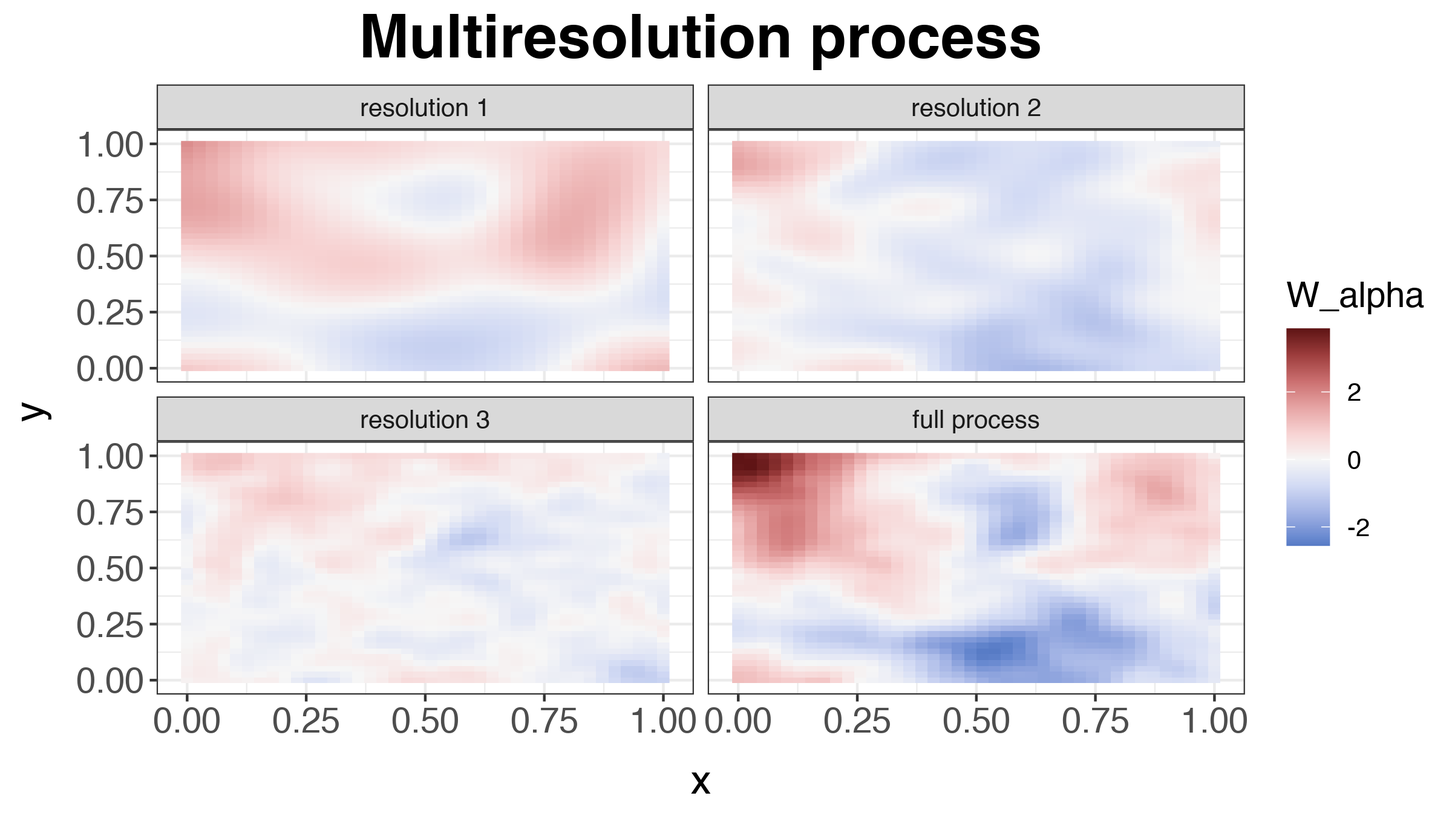
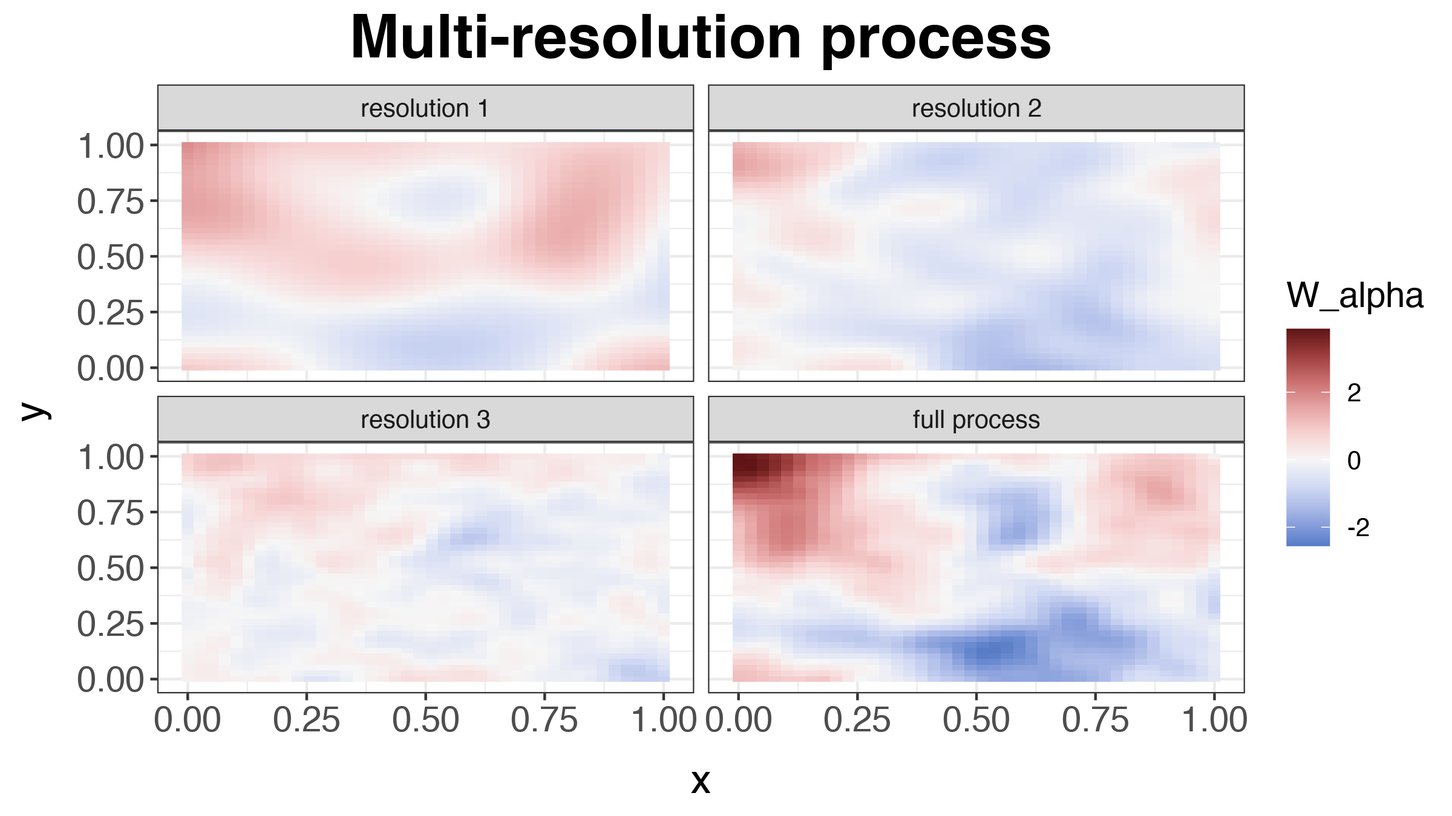
Deploy jtipton25/BayesMRA to github.com/jtipton25/BayesMRA.git:gh-pages

diff --git a/articles/mra-simulation.html b/articles/mra-simulation.html
@@ -5,13 +5,13 @@
 <meta charset="utf-8">
 <meta http-equiv="X-UA-Compatible" content="IE=edge">
 <meta name="viewport" content="width=device-width, initial-scale=1.0">
-<title>Fitting Bayesian multiresolution models with `mcmc_mra()` • BayesMRA</title>
+<title>Fitting Bayesian Multi-resolution Models With `mcmc_mra()` • BayesMRA</title>
 <!-- jquery --><script src="https://cdnjs.cloudflare.com/ajax/libs/jquery/3.4.1/jquery.min.js" integrity="sha256-CSXorXvZcTkaix6Yvo6HppcZGetbYMGWSFlBw8HfCJo=" crossorigin="anonymous"></script><!-- Bootstrap --><link rel="stylesheet" href="https://cdnjs.cloudflare.com/ajax/libs/twitter-bootstrap/3.4.1/css/bootstrap.min.css" integrity="sha256-bZLfwXAP04zRMK2BjiO8iu9pf4FbLqX6zitd+tIvLhE=" crossorigin="anonymous">
 <script src="https://cdnjs.cloudflare.com/ajax/libs/twitter-bootstrap/3.4.1/js/bootstrap.min.js" integrity="sha256-nuL8/2cJ5NDSSwnKD8VqreErSWHtnEP9E7AySL+1ev4=" crossorigin="anonymous"></script><!-- bootstrap-toc --><link rel="stylesheet" href="../bootstrap-toc.css">
 <script src="../bootstrap-toc.js"></script><!-- Font Awesome icons --><link rel="stylesheet" href="https://cdnjs.cloudflare.com/ajax/libs/font-awesome/5.12.1/css/all.min.css" integrity="sha256-mmgLkCYLUQbXn0B1SRqzHar6dCnv9oZFPEC1g1cwlkk=" crossorigin="anonymous">
 <link rel="stylesheet" href="https://cdnjs.cloudflare.com/ajax/libs/font-awesome/5.12.1/css/v4-shims.min.css" integrity="sha256-wZjR52fzng1pJHwx4aV2AO3yyTOXrcDW7jBpJtTwVxw=" crossorigin="anonymous">
 <!-- clipboard.js --><script src="https://cdnjs.cloudflare.com/ajax/libs/clipboard.js/2.0.6/clipboard.min.js" integrity="sha256-inc5kl9MA1hkeYUt+EC3BhlIgyp/2jDIyBLS6k3UxPI=" crossorigin="anonymous"></script><!-- headroom.js --><script src="https://cdnjs.cloudflare.com/ajax/libs/headroom/0.11.0/headroom.min.js" integrity="sha256-AsUX4SJE1+yuDu5+mAVzJbuYNPHj/WroHuZ8Ir/CkE0=" crossorigin="anonymous"></script><script src="https://cdnjs.cloudflare.com/ajax/libs/headroom/0.11.0/jQuery.headroom.min.js" integrity="sha256-ZX/yNShbjqsohH1k95liqY9Gd8uOiE1S4vZc+9KQ1K4=" crossorigin="anonymous"></script><!-- pkgdown --><link href="../pkgdown.css" rel="stylesheet">
-<script src="../pkgdown.js"></script><meta property="og:title" content="Fitting Bayesian multiresolution models with `mcmc_mra()`">
+<script src="../pkgdown.js"></script><meta property="og:title" content="Fitting Bayesian Multi-resolution Models With `mcmc_mra()`">
 <meta property="og:description" content="BayesMRA">
 <!-- mathjax --><script src="https://cdnjs.cloudflare.com/ajax/libs/mathjax/2.7.5/MathJax.js" integrity="sha256-nvJJv9wWKEm88qvoQl9ekL2J+k/RWIsaSScxxlsrv8k=" crossorigin="anonymous"></script><script src="https://cdnjs.cloudflare.com/ajax/libs/mathjax/2.7.5/config/TeX-AMS-MML_HTMLorMML.js" integrity="sha256-84DKXVJXs0/F8OTMzX4UR909+jtl4G7SPypPavF+GfA=" crossorigin="anonymous"></script><!--[if lt IE 9]>
 <script src="https://oss.maxcdn.com/html5shiv/3.7.3/html5shiv.min.js"></script>
@@ -54,7 +54,7 @@
   </a>
   <ul class="dropdown-menu" role="menu">
 <li>
-      <a href="../articles/mra-simulation.html">Fitting Bayesian multiresolution models with `mcmc_mra()`</a>
+      <a href="../articles/mra-simulation.html">Fitting Bayesian Multi-resolution Models With `mcmc_mra()`</a>
     </li>
   </ul>
 </li>
@@ -82,7 +82,7 @@
       </header><div class="row">
   <div class="col-md-9 contents">
     <div class="page-header toc-ignore">
-      <h1 data-toc-skip>Fitting Bayesian multiresolution models with <code>mcmc_mra()</code>
+      <h1 data-toc-skip>Fitting Bayesian Multi-resolution Models With <code>mcmc_mra()</code>
 </h1>
             
       
@@ -94,7 +94,7 @@
     
     
 
-<p>In this Vignette, we demonstrate how to fit Bayesian spatial models using the multiresolution model using Markov Chain Monte Carlo (MCMC).</p>
+<p>In this Vignette, we demonstrate how to fit Bayesian spatial models using the multi-resolution model using Markov Chain Monte Carlo (MCMC).</p>
 <div id="defining-the-mra-model" class="section level1">
 <h1 class="hasAnchor">
 <a href="#defining-the-mra-model" class="anchor"></a>Defining the MRA model</h1>
@@ -170,13 +170,13 @@ y(\mathbf{s}) &amp; = \mathbf{x}(\mathbf{s})' \boldsymbol{\beta} + \eta(\mathbf{
 <span class="no">y</span> <span class="kw">&lt;-</span> <span class="no">X</span> <span class="kw">%*%</span> <span class="no">beta</span> + <span class="no">W</span> <span class="kw">%*%</span> <span class="no">alpha</span> + <span class="fu"><a href="https://rdrr.io/r/stats/Normal.html">rnorm</a></span>(<span class="no">N</span>, <span class="fl">0</span>, <span class="fu"><a href="https://rdrr.io/r/base/MathFun.html">sqrt</a></span>(<span class="no">sigma2</span>))</pre></body></html></div>
 <p>Next, the sum-to-one constraint is verified by checking that within each dimension the sum of the <span class="math inline">\(\boldsymbol{\alpha}_m\)</span> parameters is 0.</p>
 <div class="sourceCode" id="cb2"><html><body><pre class="r"><span class="fu"><a href="https://rdrr.io/r/base/sum.html">sum</a></span>(<span class="no">alpha</span>)</pre></body></html></div>
-<pre><code>## [1] 4.128642e-14</code></pre>
+<pre><code>## [1] 1.98782e-14</code></pre>
 <div class="sourceCode" id="cb4"><html><body><pre class="r"><span class="fu"><a href="https://rdrr.io/r/base/sum.html">sum</a></span>(<span class="no">alpha</span>[<span class="no">dims_idx</span> <span class="kw">==</span> <span class="fl">1</span>])</pre></body></html></div>
-<pre><code>## [1] -3.103073e-14</code></pre>
+<pre><code>## [1] 1.450229e-15</code></pre>
 <div class="sourceCode" id="cb6"><html><body><pre class="r"><span class="fu"><a href="https://rdrr.io/r/base/sum.html">sum</a></span>(<span class="no">alpha</span>[<span class="no">dims_idx</span> <span class="kw">==</span> <span class="fl">2</span>])</pre></body></html></div>
-<pre><code>## [1] 2.21767e-14</code></pre>
+<pre><code>## [1] 4.22995e-14</code></pre>
 <div class="sourceCode" id="cb8"><html><body><pre class="r"><span class="fu"><a href="https://rdrr.io/r/base/sum.html">sum</a></span>(<span class="no">alpha</span>[<span class="no">dims_idx</span> <span class="kw">==</span> <span class="fl">3</span>])</pre></body></html></div>
-<pre><code>## [1] 5.014045e-14</code></pre>
+<pre><code>## [1] -2.387153e-14</code></pre>
 <div id="plotting-the-simulated-data" class="section level2">
 <h2 class="hasAnchor">
 <a href="#plotting-the-simulated-data" class="anchor"></a>Plotting the simulated data</h2>
@@ -292,9 +292,9 @@ y(\mathbf{s}) &amp; = \mathbf{x}(\mathbf{s})' \boldsymbol{\beta} + \eta(\mathbf{
   <span class="fu">ggtitle</span>(<span class="st">"Fixed effects"</span>) +
   <span class="kw pkg">colorspace</span><span class="kw ns">::</span><span class="fu">scale_fill_continuous_diverging</span>(<span class="st">"Blue-Red 3"</span>, <span class="kw">limits</span> <span class="kw">=</span> <span class="no">zlims</span>) +
   <span class="fu">theme_bw</span>() +
-  <span class="fu">theme_custom</span>(<span class="fl">0.70</span>)
-
-<span class="no">dat_map</span> <span class="kw">&lt;-</span> <span class="fu"><a href="https://rdrr.io/r/base/data.frame.html">data.frame</a></span>(
+  <span class="fu">theme_custom</span>(<span class="fl">0.70</span>)</pre></body></html></div>
+<pre><code>## Error in ggplot2::continuous_scale(aesthetics, "continuous_diverging", : object 'zlims' not found</code></pre>
+<div class="sourceCode" id="cb16"><html><body><pre class="r"><span class="no">dat_map</span> <span class="kw">&lt;-</span> <span class="fu"><a href="https://rdrr.io/r/base/data.frame.html">data.frame</a></span>(
   <span class="kw">temp</span> <span class="kw">=</span> <span class="fu"><a href="https://rdrr.io/r/base/c.html">c</a></span>(<span class="no">y</span>),
   <span class="kw">re</span>   <span class="kw">=</span> <span class="fu"><a href="https://rdrr.io/r/base/c.html">c</a></span>(<span class="no">W</span> <span class="kw">%*%</span> <span class="no">alpha</span>),
   <span class="kw">x</span>    <span class="kw">=</span> <span class="no">locs</span>[, <span class="fl">1</span>],
@@ -309,9 +309,9 @@ y(\mathbf{s}) &amp; = \mathbf{x}(\mathbf{s})' \boldsymbol{\beta} + \eta(\mathbf{
   <span class="fu">ggtitle</span>(<span class="st">"Observed surface"</span>) +
   <span class="kw pkg">colorspace</span><span class="kw ns">::</span><span class="fu">scale_fill_continuous_diverging</span>(<span class="st">"Blue-Red 3"</span>, <span class="kw">limits</span> <span class="kw">=</span> <span class="no">zlims</span>) +
   <span class="fu">theme_bw</span>() +
-  <span class="fu">theme_custom</span>(<span class="fl">0.70</span>)
-
-<span class="no">g_re</span> <span class="kw">&lt;-</span> <span class="no">dat_map</span> <span class="kw">%&gt;%</span>
+  <span class="fu">theme_custom</span>(<span class="fl">0.70</span>)</pre></body></html></div>
+<pre><code>## Error in ggplot2::continuous_scale(aesthetics, "continuous_diverging", : object 'zlims' not found</code></pre>
+<div class="sourceCode" id="cb18"><html><body><pre class="r"><span class="no">g_re</span> <span class="kw">&lt;-</span> <span class="no">dat_map</span> <span class="kw">%&gt;%</span>
   <span class="fu">ggplot</span>(<span class="fu">aes</span>(<span class="kw">x</span> <span class="kw">=</span> <span class="no">x</span>, <span class="kw">y</span> <span class="kw">=</span> <span class="no">y</span>, <span class="kw">fill</span> <span class="kw">=</span> <span class="no">re</span>)) +
   <span class="fu">geom_raster</span>() +
   <span class="fu">xlab</span>(<span class="st">"x"</span>) +
@@ -320,12 +320,12 @@ y(\mathbf{s}) &amp; = \mathbf{x}(\mathbf{s})' \boldsymbol{\beta} + \eta(\mathbf{
   <span class="kw pkg">colorspace</span><span class="kw ns">::</span><span class="fu">scale_fill_continuous_diverging</span>(<span class="st">"Blue-Red 3"</span>, <span class="kw">limits</span> <span class="kw">=</span> <span class="no">zlims</span>) +
   <span class="fu">theme_bw</span>() +
   <span class="fu">theme</span>(<span class="kw">legend.position</span> <span class="kw">=</span> <span class="st">"none"</span>) +
-  <span class="fu">theme_custom</span>(<span class="fl">0.70</span>)
-
-<span class="no">g_fixed</span> + <span class="no">g_re</span> + <span class="no">g_full</span> + <span class="fu">plot_layout</span>(<span class="kw">guides</span> <span class="kw">=</span> <span class="st">"collect"</span>)</pre></body></html></div>
-<p><img src="plot-data-process-1.png" title="plot of chunk plot-data-process" alt="plot of chunk plot-data-process" style="display: block; margin: auto;"></p>
+  <span class="fu">theme_custom</span>(<span class="fl">0.70</span>)</pre></body></html></div>
+<pre><code>## Error in ggplot2::continuous_scale(aesthetics, "continuous_diverging", : object 'zlims' not found</code></pre>
+<div class="sourceCode" id="cb20"><html><body><pre class="r"><span class="no">g_fixed</span> + <span class="no">g_re</span> + <span class="no">g_full</span> + <span class="fu">plot_layout</span>(<span class="kw">guides</span> <span class="kw">=</span> <span class="st">"collect"</span>)</pre></body></html></div>
+<pre><code>## Error in eval(expr, envir, enclos): object 'g_fixed' not found</code></pre>
 <p>To further examine how the spatial process is constructed, the plot below shows the contribution to the full spatial process (bottom right plot) from each of the different resolutions. The plot shows how the coarsest resolution (top left) produces a coarse process over large spatial resolutions and the finest resolution (lower left) produces a finer-scale process. The three (M) resolutions are added together to produce the full process.</p>
-<div class="sourceCode" id="cb15"><html><body><pre class="r"><span class="co">## MRA spatial process</span>
+<div class="sourceCode" id="cb22"><html><body><pre class="r"><span class="co">## MRA spatial process</span>
 <span class="no">W_alpha_res</span> <span class="kw">=</span> <span class="fu"><a href="https://rdrr.io/r/base/unlist.html">unlist</a></span>(<span class="fu"><a href="https://rdrr.io/r/base/lapply.html">sapply</a></span>(<span class="fl">1</span>:<span class="no">M</span>, <span class="kw">function</span>(<span class="no">m</span>) <span class="no">W</span>[, <span class="no">dims_idx</span> <span class="kw">==</span> <span class="no">m</span>] <span class="kw">%*%</span> <span class="no">alpha</span>[<span class="no">dims_idx</span> <span class="kw">==</span> <span class="no">m</span>], <span class="kw">simplify</span> <span class="kw">=</span> <span class="st">"matrix"</span>))
 <span class="fu"><a href="https://rdrr.io/r/base/dimnames.html">dimnames</a></span>(<span class="no">W_alpha_res</span>) <span class="kw">&lt;-</span> <span class="fu"><a href="https://rdrr.io/r/base/list.html">list</a></span>(
   <span class="kw">site</span> <span class="kw">=</span> <span class="fl">1</span>:<span class="no">N</span>,
@@ -352,7 +352,7 @@ y(\mathbf{s}) &amp; = \mathbf{x}(\mathbf{s})' \boldsymbol{\beta} + \eta(\mathbf{
   <span class="fu">facet_wrap</span>( ~ <span class="no">res</span>, <span class="kw">ncol</span> <span class="kw">=</span> <span class="fl">2</span>) +
   <span class="fu">xlab</span>(<span class="st">"x"</span>) +
   <span class="fu">ylab</span>(<span class="st">"y"</span>) +
-  <span class="fu">ggtitle</span>(<span class="st">"Multiresolution process"</span>) +
+  <span class="fu">ggtitle</span>(<span class="st">"Multi-resolution process"</span>) +
   <span class="kw pkg">colorspace</span><span class="kw ns">::</span><span class="fu">scale_fill_continuous_diverging</span>(<span class="st">"Blue-Red 3"</span>) +
   <span class="fu">theme_bw</span>() +
   <span class="fu">theme_custom</span>()
@@ -364,7 +364,7 @@ y(\mathbf{s}) &amp; = \mathbf{x}(\mathbf{s})' \boldsymbol{\beta} + \eta(\mathbf{
 <h1 class="hasAnchor">
 <a href="#fitting-the-mra-model" class="anchor"></a>Fitting the MRA model</h1>
 <p>To explore how well the fitted model can predict out of sample data, we take a sample <span class="math inline">\(s\)</span> of size <span class="math inline">\(n_{sites}\)</span> from the <span class="math inline">\(N\)</span> simulated points and fit the model using <code><a href="../reference/mcmc_mra.html">mcmc_mra()</a></code>.</p>
-<div class="sourceCode" id="cb16"><html><body><pre class="r"><span class="fu"><a href="https://rdrr.io/r/base/Random.html">set.seed</a></span>(<span class="fl">111</span>)
+<div class="sourceCode" id="cb23"><html><body><pre class="r"><span class="fu"><a href="https://rdrr.io/r/base/Random.html">set.seed</a></span>(<span class="fl">111</span>)
 <span class="no">n_sites</span>   <span class="kw">&lt;-</span> <span class="fl">500</span>
 <span class="no">s</span>         <span class="kw">&lt;-</span> <span class="fu"><a href="https://rdrr.io/r/base/sample.html">sample</a></span>(<span class="no">N</span>, <span class="no">n_sites</span>)
 <span class="no">y_s</span>       <span class="kw">&lt;-</span> <span class="no">y</span>[<span class="no">s</span>, ]
@@ -374,7 +374,7 @@ y(\mathbf{s}) &amp; = \mathbf{x}(\mathbf{s})' \boldsymbol{\beta} + \eta(\mathbf{
 <span class="no">locs_s</span>    <span class="kw">&lt;-</span> <span class="no">locs</span>[<span class="no">s</span>, ]
 <span class="no">locs_oos</span>  <span class="kw">&lt;-</span> <span class="no">locs</span>[ - <span class="no">s</span>, ]</pre></body></html></div>
 <p>The plot below shows the sampled data to which the model is fit, showing the spatial patterns of the sampled data.</p>
-<div class="sourceCode" id="cb17"><html><body><pre class="r"><span class="fu"><a href="https://rdrr.io/r/base/data.frame.html">data.frame</a></span>(
+<div class="sourceCode" id="cb24"><html><body><pre class="r"><span class="fu"><a href="https://rdrr.io/r/base/data.frame.html">data.frame</a></span>(
   <span class="kw">x</span>     <span class="kw">=</span> <span class="no">locs_s</span>[, <span class="fl">1</span>],
   <span class="kw">y</span>     <span class="kw">=</span> <span class="no">locs_s</span>[, <span class="fl">2</span>],
   <span class="kw">site</span>  <span class="kw">=</span> <span class="fu"><a href="https://rdrr.io/r/base/factor.html">factor</a></span>(<span class="fl">1</span>:<span class="no">n_sites</span>),
@@ -387,9 +387,9 @@ y(\mathbf{s}) &amp; = \mathbf{x}(\mathbf{s})' \boldsymbol{\beta} + \eta(\mathbf{
   <span class="fu">theme_bw</span>() +
   <span class="fu">theme_custom</span>() +
   <span class="fu">theme</span>(<span class="kw">legend.position</span> <span class="kw">=</span> <span class="st">"none"</span>)</pre></body></html></div>
-<p><img src="plot-sampled-data-1.png" title="plot of chunk plot-sampled-data" alt="plot of chunk plot-sampled-data" style="display: block; margin: auto;"></p>
+<pre><code>## Error in ggplot2::continuous_scale(aesthetics, "continuous_diverging", : object 'zlims' not found</code></pre>
 <p>To fit the model, we must specify the parameters form model fitting. The parameter <code>params$n_adapt</code> determines the number of warm-up MCMC iterations and these iterations are discarded. The parameter <code>params$n_mcmc</code> determines the number of post warm-up MCMC iterations (i.e., the total number of MCMC iterations is <code>params$n_adapt + params$n_mcmc</code>). The parameter <code>params$n_thin</code> determines the thinning rate for keeping posterior samples which is primarily used when the number of MCMC samples to keep stresses the computer memory usage. The total number of samples kept is <code>params$n_mcmc / params$n_thin</code>. The parameter <code>params$n_message</code> specifies the frequency of messages to display showing the progress of the MCMC algorithm. The object <code>priors</code> defines the priors for fitting the model. If <code>priors</code> is not specified, default priors are used.</p>
-<div class="sourceCode" id="cb18"><html><body><pre class="r"><span class="no">params</span> <span class="kw">&lt;-</span> <span class="fu"><a href="https://rdrr.io/r/base/list.html">list</a></span>(
+<div class="sourceCode" id="cb26"><html><body><pre class="r"><span class="no">params</span> <span class="kw">&lt;-</span> <span class="fu"><a href="https://rdrr.io/r/base/list.html">list</a></span>(
   <span class="kw">n_mcmc</span>    <span class="kw">=</span> <span class="fl">500</span>,
   <span class="kw">n_adapt</span>   <span class="kw">=</span> <span class="fl">500</span>,
   <span class="kw">n_thin</span>    <span class="kw">=</span> <span class="fl">1</span>,
@@ -403,11 +403,11 @@ y(\mathbf{s}) &amp; = \mathbf{x}(\mathbf{s})' \boldsymbol{\beta} + \eta(\mathbf{
   <span class="kw">beta_sigma2</span>  <span class="kw">=</span> <span class="fl">1</span>,
   <span class="kw">mu_beta</span>      <span class="kw">=</span> <span class="fu"><a href="https://rdrr.io/r/base/rep.html">rep</a></span>(<span class="fl">0</span>, <span class="fu"><a href="https://rdrr.io/r/base/nrow.html">ncol</a></span>(<span class="no">X_s</span>)),
   <span class="kw">Sigma_beta</span>   <span class="kw">=</span> <span class="fl">5</span> * <span class="fu"><a href="https://rdrr.io/r/base/diag.html">diag</a></span>(<span class="fu"><a href="https://rdrr.io/r/base/nrow.html">ncol</a></span>(<span class="no">X_s</span>)))</pre></body></html></div>
-<p>Now we can fit the model to the simulated data. Using a <a href="https://www.tidyverse.org/blog/2017/12/workflow-vs-script/">project-oriented workflow</a>, we save the MCMC output that results from <code><a href="../reference/mcmc_mra.html">mcmc_mra()</a></code> in a folder named <code>results</code>.</p>
-<div id="fitting-the-mcmc" class="section level2">
+<p>Now we can fit the model to the simulated data. Using a <a href="https://www.tidyverse.org/blog/2017/12/workflow-vs-script/">project-oriented workflow</a>, we save the MCMC output that results from <code><a href="../reference/mcmc_mra.html">mcmc_mra()</a></code> in a folder named <code>results</code> in the current project.</p>
+<div id="fitting-the-model-using-mcmc" class="section level2">
 <h2 class="hasAnchor">
-<a href="#fitting-the-mcmc" class="anchor"></a>Fitting the MCMC</h2>
-<div class="sourceCode" id="cb19"><html><body><pre class="r"><span class="fu"><a href="https://rdrr.io/r/base/Random.html">set.seed</a></span>(<span class="fl">999</span>)
+<a href="#fitting-the-model-using-mcmc" class="anchor"></a>Fitting the model using MCMC</h2>
+<div class="sourceCode" id="cb27"><html><body><pre class="r"><span class="fu"><a href="https://rdrr.io/r/base/Random.html">set.seed</a></span>(<span class="fl">999</span>)
 
 <span class="kw">if</span> (<span class="fu"><a href="https://rdrr.io/r/base/files.html">file.exists</a></span>(<span class="kw pkg">here</span><span class="kw ns">::</span><span class="fu">here</span>(<span class="st">"results"</span>, <span class="st">"fit-mra-sim.RData"</span>))) {
   <span class="fu"><a href="https://rdrr.io/r/base/load.html">load</a></span>(<span class="kw pkg">here</span><span class="kw ns">::</span><span class="fu">here</span>(<span class="st">"results"</span>, <span class="st">"fit-mra-sim.RData"</span>))
@@ -428,14 +428,14 @@ y(\mathbf{s}) &amp; = \mathbf{x}(\mathbf{s})' \boldsymbol{\beta} + \eta(\mathbf{
   <span class="no">runtime</span> <span class="kw">&lt;-</span> <span class="no">end</span> - <span class="no">start</span>
   <span class="fu"><a href="https://rdrr.io/r/base/save.html">save</a></span>(<span class="no">out</span>, <span class="no">runtime</span>, <span class="kw">file</span> <span class="kw">=</span> <span class="kw pkg">here</span><span class="kw ns">::</span><span class="fu">here</span>(<span class="st">"results"</span>, <span class="st">"fit-mra-sim.RData"</span>))
 }</pre></body></html></div>
-<p>The fitting of <code><a href="../reference/mcmc_mra.html">mcmc_mra()</a></code> took 10.89 mins.</p>
+<p>The fitting of <code><a href="../reference/mcmc_mra.html">mcmc_mra()</a></code> took 6.02 mins.</p>
 </div>
 </div>
 <div id="examining-the-mra-mcmc-output" class="section level1">
 <h1 class="hasAnchor">
 <a href="#examining-the-mra-mcmc-output" class="anchor"></a>Examining the MRA MCMC output</h1>
 <p>After fitting the MCMC using <code><a href="../reference/mcmc_mra.html">mcmc_mra()</a></code>, we plot the trace plots of the parameters to check for evidence that the model has not converged and to identify that the parameters have mixed. The first trace plots we examine are for the variance parameters and the regression coefficients. Overall, these trace plots look decent although the effective samples size for the <span class="math inline">\(\tau^2\)</span>s and <span class="math inline">\(\beta\)</span>s might be low and more samples might be needed for making inference with the model.</p>
-<div class="sourceCode" id="cb20"><html><body><pre class="r"><span class="no">dat_tau2</span> <span class="kw">&lt;-</span> <span class="fu"><a href="https://rdrr.io/r/base/data.frame.html">data.frame</a></span>(
+<div class="sourceCode" id="cb28"><html><body><pre class="r"><span class="no">dat_tau2</span> <span class="kw">&lt;-</span> <span class="fu"><a href="https://rdrr.io/r/base/data.frame.html">data.frame</a></span>(
   <span class="kw">tau2</span>      <span class="kw">=</span> <span class="fu"><a href="https://rdrr.io/r/base/c.html">c</a></span>(<span class="no">out</span>$<span class="no">tau2</span>),
   <span class="kw">iteration</span> <span class="kw">=</span> <span class="fu"><a href="https://rdrr.io/r/base/rep.html">rep</a></span>(<span class="fl">1</span>:<span class="fu"><a href="https://rdrr.io/r/base/nrow.html">nrow</a></span>(<span class="no">out</span>$<span class="no">tau2</span>), <span class="kw">times</span> <span class="kw">=</span> <span class="no">M</span>),
   <span class="kw">resolution</span> <span class="kw">=</span> <span class="fu"><a href="https://rdrr.io/r/base/factor.html">factor</a></span>(<span class="fu"><a href="https://rdrr.io/r/base/rep.html">rep</a></span>(<span class="fl">1</span>:<span class="no">M</span>, <span class="kw">each</span> <span class="kw">=</span> <span class="fu"><a href="https://rdrr.io/r/base/nrow.html">nrow</a></span>(<span class="no">out</span>$<span class="no">tau2</span>)))
@@ -485,7 +485,7 @@ y(\mathbf{s}) &amp; = \mathbf{x}(\mathbf{s})' \boldsymbol{\beta} + \eta(\mathbf{
 (<span class="no">p_tau2</span> + <span class="no">p_lambda</span>) /  (<span class="no">p_sigma2</span> + <span class="no">p_beta</span>)</pre></body></html></div>
 <p><img src="trace-plots-1.png" title="plot of chunk trace-plots" alt="plot of chunk trace-plots" style="display: block; margin: auto;"></p>
 <p>Next, the trace plots for the spatial parameter <span class="math inline">\(\boldsymbol{\alpha}_m\)</span> are shown. Because there are so many parameters, a sample is taken for plotting. These traceplots suggest that perhaps <span class="math inline">\(\boldsymbol{\alpha}\)</span> hasn’t entirely converged. However, as there is a non-identifiability between <span class="math inline">\(\tau^2_m\)</span> and <span class="math inline">\(\boldsymbol{\alpha}_m\)</span>, this is not surprising and might not be remedied with more samples.</p>
-<div class="sourceCode" id="cb21"><html><body><pre class="r"><span class="co">## posterior plots for alpha</span>
+<div class="sourceCode" id="cb29"><html><body><pre class="r"><span class="co">## posterior plots for alpha</span>
 
 <span class="no">dat_alpha</span> <span class="kw">&lt;-</span> <span class="fu"><a href="https://rdrr.io/r/base/data.frame.html">data.frame</a></span>(
   <span class="kw">alpha</span> <span class="kw">=</span> <span class="fu"><a href="https://rdrr.io/r/base/c.html">c</a></span>(<span class="no">out</span>$<span class="no">alpha</span>),
@@ -512,7 +512,7 @@ y(\mathbf{s}) &amp; = \mathbf{x}(\mathbf{s})' \boldsymbol{\beta} + \eta(\mathbf{
   <span class="fu">theme</span>(<span class="kw">legend.position</span> <span class="kw">=</span> <span class="st">"none"</span>)</pre></body></html></div>
 <p><img src="trace-plots-alpha-1.png" title="plot of chunk trace-plots-alpha" alt="plot of chunk trace-plots-alpha" style="display: block; margin: auto;"></p>
 <p>Because the model was fit to simulated data, the posterior predictions can be compared to the simulated parameters to evaluate the model performance. The following plots show the 95% central credible intervals for different parameters plotted against the simulated parameters. For the regression parameters <span class="math inline">\(\boldsymbol{\beta}\)</span>, the model is doing a reasonable job of recovering these parameters. The parameter estimates for <span class="math inline">\(\tau^2_m\)</span> and <span class="math inline">\(\boldsymbol{\alpha}_m\)</span> show poor performance in estimating the true parameters. This is due to a non-identifiability in the model; however, this is not a concern as the spatial process <span class="math inline">\(\sum_{m=1}^M \mathbf{W}_m \boldsymbol{\alpha}_m\)</span> is well estimated which will be shown later.</p>
-<div class="sourceCode" id="cb22"><html><body><pre class="r"><span class="co">## predicted vs. estimated beta</span>
+<div class="sourceCode" id="cb30"><html><body><pre class="r"><span class="co">## predicted vs. estimated beta</span>
 <span class="no">dat_plot</span> <span class="kw">&lt;-</span> <span class="fu"><a href="https://rdrr.io/r/base/data.frame.html">data.frame</a></span>(
   <span class="kw">truth</span> <span class="kw">=</span> <span class="no">beta</span>,
   <span class="kw">mean</span>  <span class="kw">=</span> <span class="fu"><a href="https://rdrr.io/r/base/apply.html">apply</a></span>(<span class="no">out</span>$<span class="no">beta</span>, <span class="fl">2</span>, <span class="no">mean</span>),
@@ -586,7 +586,7 @@ y(\mathbf{s}) &amp; = \mathbf{x}(\mathbf{s})' \boldsymbol{\beta} + \eta(\mathbf{
 (<span class="no">p_beta</span> + <span class="no">p_sigma2</span>) / (<span class="no">p_tau2</span> + <span class="no">p_alpha</span>)</pre></body></html></div>
 <p><img src="estimated-vs-predicted-1.png" title="plot of chunk estimated-vs-predicted" alt="plot of chunk estimated-vs-predicted" style="display: block; margin: auto;"></p>
 <p>Next, the simulated and estimated <span class="math inline">\(\boldsymbol{\alpha}_m\)</span> are plotted on the spatial grid. The plots show that the <span class="math inline">\(\boldsymbol{\alpha}_m\)</span>s are not being identified.</p>
-<div class="sourceCode" id="cb23"><html><body><pre class="r"><span class="no">fitted_alphas</span> <span class="kw">&lt;-</span> <span class="fu"><a href="https://rdrr.io/r/base/data.frame.html">data.frame</a></span>(
+<div class="sourceCode" id="cb31"><html><body><pre class="r"><span class="no">fitted_alphas</span> <span class="kw">&lt;-</span> <span class="fu"><a href="https://rdrr.io/r/base/data.frame.html">data.frame</a></span>(
     <span class="kw">x</span> <span class="kw">=</span> <span class="fu"><a href="https://rdrr.io/r/base/unlist.html">unlist</a></span>(<span class="fu"><a href="https://rdrr.io/r/base/lapply.html">sapply</a></span>(<span class="fl">1</span>:<span class="no">M</span>, <span class="kw">function</span>(<span class="no">i</span>) <span class="no">MRA</span>$<span class="no">locs_grid</span><span class="kw">[[</span><span class="no">i</span>]][, <span class="fl">1</span>])),
     <span class="kw">y</span> <span class="kw">=</span> <span class="fu"><a href="https://rdrr.io/r/base/unlist.html">unlist</a></span>(<span class="fu"><a href="https://rdrr.io/r/base/lapply.html">sapply</a></span>(<span class="fl">1</span>:<span class="no">M</span>, <span class="kw">function</span>(<span class="no">i</span>) <span class="no">MRA</span>$<span class="no">locs_grid</span><span class="kw">[[</span><span class="no">i</span>]][, <span class="fl">2</span>])),
     <span class="kw">res</span> <span class="kw">=</span> <span class="fu"><a href="https://rdrr.io/r/base/factor.html">factor</a></span>(<span class="fu"><a href="https://rdrr.io/r/base/unlist.html">unlist</a></span>(<span class="fu"><a href="https://rdrr.io/r/base/lapply.html">sapply</a></span>(<span class="fl">1</span>:<span class="no">M</span>, <span class="kw">function</span>(<span class="no">i</span>) <span class="fu"><a href="https://rdrr.io/r/base/rep.html">rep</a></span>(<span class="no">i</span>, <span class="kw">each</span> <span class="kw">=</span> <span class="fu"><a href="https://rdrr.io/r/base/nrow.html">nrow</a></span>(<span class="no">MRA</span>$<span class="no">locs_grid</span><span class="kw">[[</span><span class="no">i</span>]]))))),
@@ -613,7 +613,7 @@ y(\mathbf{s}) &amp; = \mathbf{x}(\mathbf{s})' \boldsymbol{\beta} + \eta(\mathbf{
 <span class="no">sim_alphas</span> + <span class="fu">theme_custom</span>(<span class="fl">0.5</span>) + <span class="no">fitted_alphas</span></pre></body></html></div>
 <p><img src="estimated-alphas-1.png" title="plot of chunk estimated-alphas" alt="plot of chunk estimated-alphas" style="display: block; margin: auto;"></p>
 <p>Despite the parameters <span class="math inline">\(\tau^2_m\)</span> and <span class="math inline">\(\boldsymbol{\alpha}_m\)</span> not being identifiable, the following plot shows that the full spatial process <span class="math inline">\(\sum_{m=1}^M \mathbf{W}_m \boldsymbol{\alpha}_m\)</span>. The two figures (simulated on the left, fitted on the right) demonstrate that each of the <span class="math inline">\(m\)</span> resolutions of the process <span class="math inline">\(\mathbf{W}_m \boldsymbol{\alpha}_m\)</span> are also non-identifiable.</p>
-<div class="sourceCode" id="cb24"><html><body><pre class="r"><span class="co">## Estimated MRA spatial proces</span>
+<div class="sourceCode" id="cb32"><html><body><pre class="r"><span class="co">## Estimated MRA spatial proces</span>
 <span class="no">W_alpha_res</span> <span class="kw">=</span> <span class="fu"><a href="https://rdrr.io/r/base/unlist.html">unlist</a></span>(<span class="fu"><a href="https://rdrr.io/r/base/lapply.html">sapply</a></span>(<span class="fl">1</span>:<span class="no">M</span>, <span class="kw">function</span>(<span class="no">m</span>) <span class="no">W</span>[, <span class="no">dims_idx</span> <span class="kw">==</span> <span class="no">m</span>] <span class="kw">%*%</span> <span class="fu"><a href="https://rdrr.io/r/base/apply.html">apply</a></span>(<span class="no">out</span>$<span class="no">alpha</span>, <span class="fl">2</span>, <span class="no">mean</span>)[<span class="no">dims_idx</span> <span class="kw">==</span> <span class="no">m</span>], <span class="kw">simplify</span> <span class="kw">=</span> <span class="st">"matrix"</span>))
 <span class="fu"><a href="https://rdrr.io/r/base/dimnames.html">dimnames</a></span>(<span class="no">W_alpha_res</span>) <span class="kw">&lt;-</span> <span class="fu"><a href="https://rdrr.io/r/base/list.html">list</a></span>(
   <span class="kw">site</span> <span class="kw">=</span> <span class="fl">1</span>:<span class="no">N</span>,
@@ -640,7 +640,7 @@ y(\mathbf{s}) &amp; = \mathbf{x}(\mathbf{s})' \boldsymbol{\beta} + \eta(\mathbf{
   <span class="fu">facet_wrap</span>( ~ <span class="no">res</span>, <span class="kw">ncol</span> <span class="kw">=</span> <span class="fl">2</span>) +
   <span class="fu">xlab</span>(<span class="st">"Longitude"</span>) +
   <span class="fu">ylab</span>(<span class="st">"Latitude"</span>) +
-  <span class="fu">ggtitle</span>(<span class="st">"Estimated Multiresolution process"</span>) +
+  <span class="fu">ggtitle</span>(<span class="st">"Estimated Multi-resolution process"</span>) +
   <span class="kw pkg">colorspace</span><span class="kw ns">::</span><span class="fu">scale_fill_continuous_diverging</span>(<span class="st">"Blue-Red 3"</span>) +
   <span class="fu">theme_bw</span>() +
   <span class="fu">theme_custom</span>(<span class="fl">0.5</span>)
@@ -648,7 +648,7 @@ y(\mathbf{s}) &amp; = \mathbf{x}(\mathbf{s})' \boldsymbol{\beta} + \eta(\mathbf{
 <span class="no">sim_MRA</span> + <span class="fu">theme_custom</span>(<span class="fl">0.5</span>) + <span class="no">estimated_MRA</span></pre></body></html></div>
 <p><img src="simulated-vs-estimated-process-1.png" title="plot of chunk simulated-vs-estimated-process" alt="plot of chunk simulated-vs-estimated-process" style="display: block; margin: auto;"></p>
 <p>The next plots show the estimated vs. simulated fixed effects, spatial process, and mean response. There is some evidence of non-identifiability between the fixed effects plot and the spatial effects plot (left two plots) as there is a bias in each of the predictions. This is understood to be a consequence of spatial confounding (<span class="citation">Hodges and Reich (2010)</span>, <span class="citation">Hughes and Haran (2013)</span>, <span class="citation">Hanks et al. (2015)</span>).</p>
-<div class="sourceCode" id="cb25"><html><body><pre class="r"><span class="co">## plot estimated mean response</span>
+<div class="sourceCode" id="cb33"><html><body><pre class="r"><span class="co">## plot estimated mean response</span>
 <span class="no">Xbeta_post</span> <span class="kw">&lt;-</span> <span class="fu"><a href="https://rdrr.io/r/base/t.html">t</a></span>(<span class="no">X_s</span> <span class="kw">%*%</span> <span class="fu"><a href="https://rdrr.io/r/base/t.html">t</a></span>(<span class="no">out</span>$<span class="no">beta</span>))
 <span class="no">Walpha_post</span> <span class="kw">&lt;-</span> <span class="fu"><a href="https://rdrr.io/r/base/t.html">t</a></span>(<span class="fu"><a href="https://rdrr.io/r/base/do.call.html">do.call</a></span>(<span class="no">cbind</span>, <span class="no">out</span>$<span class="no">MRA</span>$<span class="no">W</span>) <span class="kw">%*%</span> <span class="fu"><a href="https://rdrr.io/r/base/t.html">t</a></span>(<span class="no">out</span>$<span class="no">alpha</span>))
 <span class="no">mu_post</span> <span class="kw">&lt;-</span> <span class="no">Xbeta_post</span> + <span class="no">Walpha_post</span>

diff --git a/index.html b/index.html
@@ -54,7 +54,7 @@
   </a>
   <ul class="dropdown-menu" role="menu">
 <li>
-      <a href="articles/mra-simulation.html">Fitting Bayesian multiresolution models with `mcmc_mra()`</a>
+      <a href="articles/mra-simulation.html">Fitting Bayesian Multi-resolution Models With `mcmc_mra()`</a>
     </li>
   </ul>
 </li>
@@ -99,11 +99,11 @@
 <h3 class="hasAnchor">
 <a href="#installation-from-github-using-devtools" class="anchor"></a>Installation from gitHub using <code>devtools</code>
 </h3>
-<p>To install the package from gitHub, <a href="#make-sure-you-have-the-appropriate-compiler">make sure you have the appropriate compiler</a>. Next, make sure you have the <code>devtools</code> packge installed. You can install the <code>devtools</code> package using</p>
+<p>To install the package from gitHub, <a href="#make-sure-you-have-the-appropriate-compiler">make sure you have the appropriate compiler</a>. Next, make sure you have the <code>devtools</code> package installed. You can install the <code>devtools</code> package using</p>
 <div class="sourceCode" id="cb1"><pre class="sourceCode R"><code class="sourceCode r"><a class="sourceLine" id="cb1-1" data-line-number="1"><span class="kw">install.packages</span>(<span class="st">"devtools"</span>)</a></code></pre></div>
 <p>Once the <code>devtools</code> library is installed, you can install the <code>BayesMRA</code> library using</p>
 <div class="sourceCode" id="cb2"><pre class="sourceCode R"><code class="sourceCode r"><a class="sourceLine" id="cb2-1" data-line-number="1">devtools<span class="op">::</span><span class="kw">install_github</span>(<span class="st">"jtipton25/BayesMRA"</span>)</a></code></pre></div>
-<p><strong>Note: It is recommended to reguarly check for updates by using <code><a href="https://devtools.r-lib.org//reference/remote-reexports.html">devtools::install_github("jtipton25/BayesMRA")</a></code> frequently as this package is in active development and regularly undergoes large changes</strong></p>
+<p><strong>Note: It is recommended to regularly check for updates by using <code><a href="https://devtools.r-lib.org//reference/remote-reexports.html">devtools::install_github("jtipton25/BayesMRA")</a></code> frequently as this package is in active development and regularly undergoes large changes</strong></p>
 </div>
 <div id="installation-from-cran" class="section level3">
 <h3 class="hasAnchor">

diff --git a/articles/index.html b/articles/index.html
@@ -94,7 +94,7 @@
   </a>
   <ul class="dropdown-menu" role="menu">
     <li>
-      <a href="../articles/mra-simulation.html">Fitting Bayesian multiresolution models with `mcmc_mra()`</a>
+      <a href="../articles/mra-simulation.html">Fitting Bayesian Multi-resolution Models With `mcmc_mra()`</a>
     </li>
   </ul>
 </li>
@@ -130,7 +130,7 @@
       <p class="section-desc"></p>
 
       <dl>
-        <dt><a href="mra-simulation.html">Fitting Bayesian multiresolution models with `mcmc_mra()`</a></dt>
+        <dt><a href="mra-simulation.html">Fitting Bayesian Multi-resolution Models With `mcmc_mra()`</a></dt>
         <dd></dt>
       </dl>
     </div>

diff --git a/news/index.html b/news/index.html
@@ -94,7 +94,7 @@
   </a>
   <ul class="dropdown-menu" role="menu">
     <li>
-      <a href="../articles/mra-simulation.html">Fitting Bayesian multiresolution models with `mcmc_mra()`</a>
+      <a href="../articles/mra-simulation.html">Fitting Bayesian Multi-resolution Models With `mcmc_mra()`</a>
     </li>
   </ul>
 </li>

diff --git a/reference/BayesMRA.html b/reference/BayesMRA.html
@@ -95,7 +95,7 @@
   </a>
   <ul class="dropdown-menu" role="menu">
     <li>
-      <a href="../articles/mra-simulation.html">Fitting Bayesian multiresolution models with `mcmc_mra()`</a>
+      <a href="../articles/mra-simulation.html">Fitting Bayesian Multi-resolution Models With `mcmc_mra()`</a>
     </li>
   </ul>
 </li>

diff --git a/reference/index.html b/reference/index.html
@@ -94,7 +94,7 @@
   </a>
   <ul class="dropdown-menu" role="menu">
     <li>
-      <a href="../articles/mra-simulation.html">Fitting Bayesian multiresolution models with `mcmc_mra()`</a>
+      <a href="../articles/mra-simulation.html">Fitting Bayesian Multi-resolution Models With `mcmc_mra()`</a>
     </li>
   </ul>
 </li>

diff --git a/reference/is_integer.html b/reference/is_integer.html
@@ -95,7 +95,7 @@
   </a>
   <ul class="dropdown-menu" role="menu">
     <li>
-      <a href="../articles/mra-simulation.html">Fitting Bayesian multiresolution models with `mcmc_mra()`</a>
+      <a href="../articles/mra-simulation.html">Fitting Bayesian Multi-resolution Models With `mcmc_mra()`</a>
     </li>
   </ul>
 </li>

diff --git a/reference/is_integer_matrix.html b/reference/is_integer_matrix.html
@@ -95,7 +95,7 @@
   </a>
   <ul class="dropdown-menu" role="menu">
     <li>
-      <a href="../articles/mra-simulation.html">Fitting Bayesian multiresolution models with `mcmc_mra()`</a>
+      <a href="../articles/mra-simulation.html">Fitting Bayesian Multi-resolution Models With `mcmc_mra()`</a>
     </li>
   </ul>
 </li>

diff --git a/reference/is_numeric.html b/reference/is_numeric.html
@@ -95,7 +95,7 @@
   </a>
   <ul class="dropdown-menu" role="menu">
     <li>
-      <a href="../articles/mra-simulation.html">Fitting Bayesian multiresolution models with `mcmc_mra()`</a>
+      <a href="../articles/mra-simulation.html">Fitting Bayesian Multi-resolution Models With `mcmc_mra()`</a>
     </li>
   </ul>
 </li>

diff --git a/reference/is_numeric_matrix.html b/reference/is_numeric_matrix.html
@@ -95,7 +95,7 @@
   </a>
   <ul class="dropdown-menu" role="menu">
     <li>
-      <a href="../articles/mra-simulation.html">Fitting Bayesian multiresolution models with `mcmc_mra()`</a>
+      <a href="../articles/mra-simulation.html">Fitting Bayesian Multi-resolution Models With `mcmc_mra()`</a>
     </li>
   </ul>
 </li>

diff --git a/reference/is_numeric_vector.html b/reference/is_numeric_vector.html
@@ -95,7 +95,7 @@
   </a>
   <ul class="dropdown-menu" role="menu">
     <li>
-      <a href="../articles/mra-simulation.html">Fitting Bayesian multiresolution models with `mcmc_mra()`</a>
+      <a href="../articles/mra-simulation.html">Fitting Bayesian Multi-resolution Models With `mcmc_mra()`</a>
     </li>
   </ul>
 </li>

diff --git a/reference/is_positive_integer.html b/reference/is_positive_integer.html
@@ -95,7 +95,7 @@
   </a>
   <ul class="dropdown-menu" role="menu">
     <li>
-      <a href="../articles/mra-simulation.html">Fitting Bayesian multiresolution models with `mcmc_mra()`</a>
+      <a href="../articles/mra-simulation.html">Fitting Bayesian Multi-resolution Models With `mcmc_mra()`</a>
     </li>
   </ul>
 </li>
